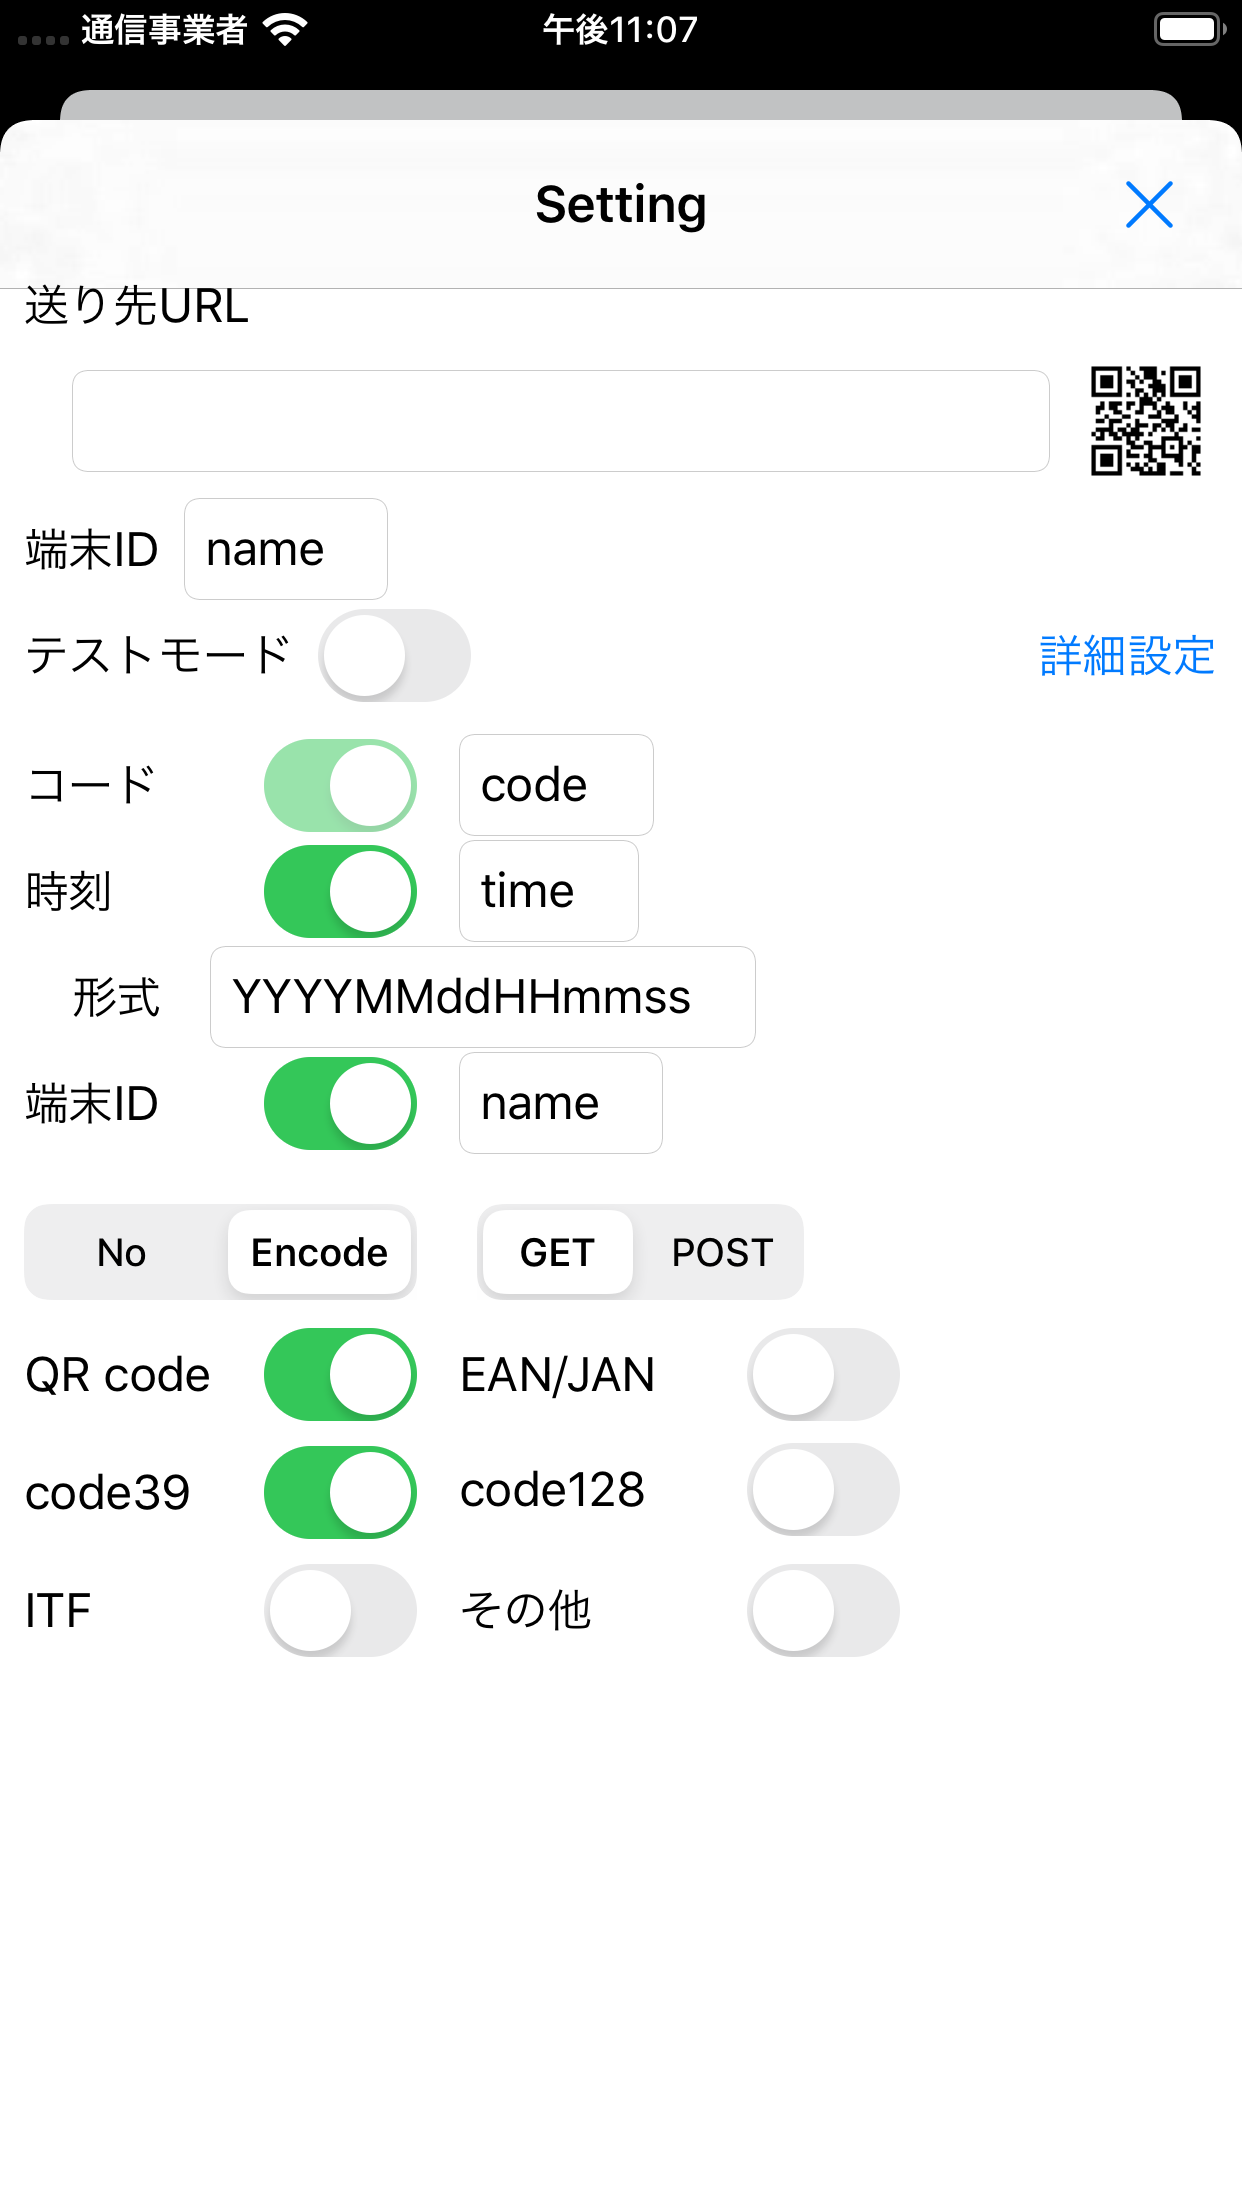
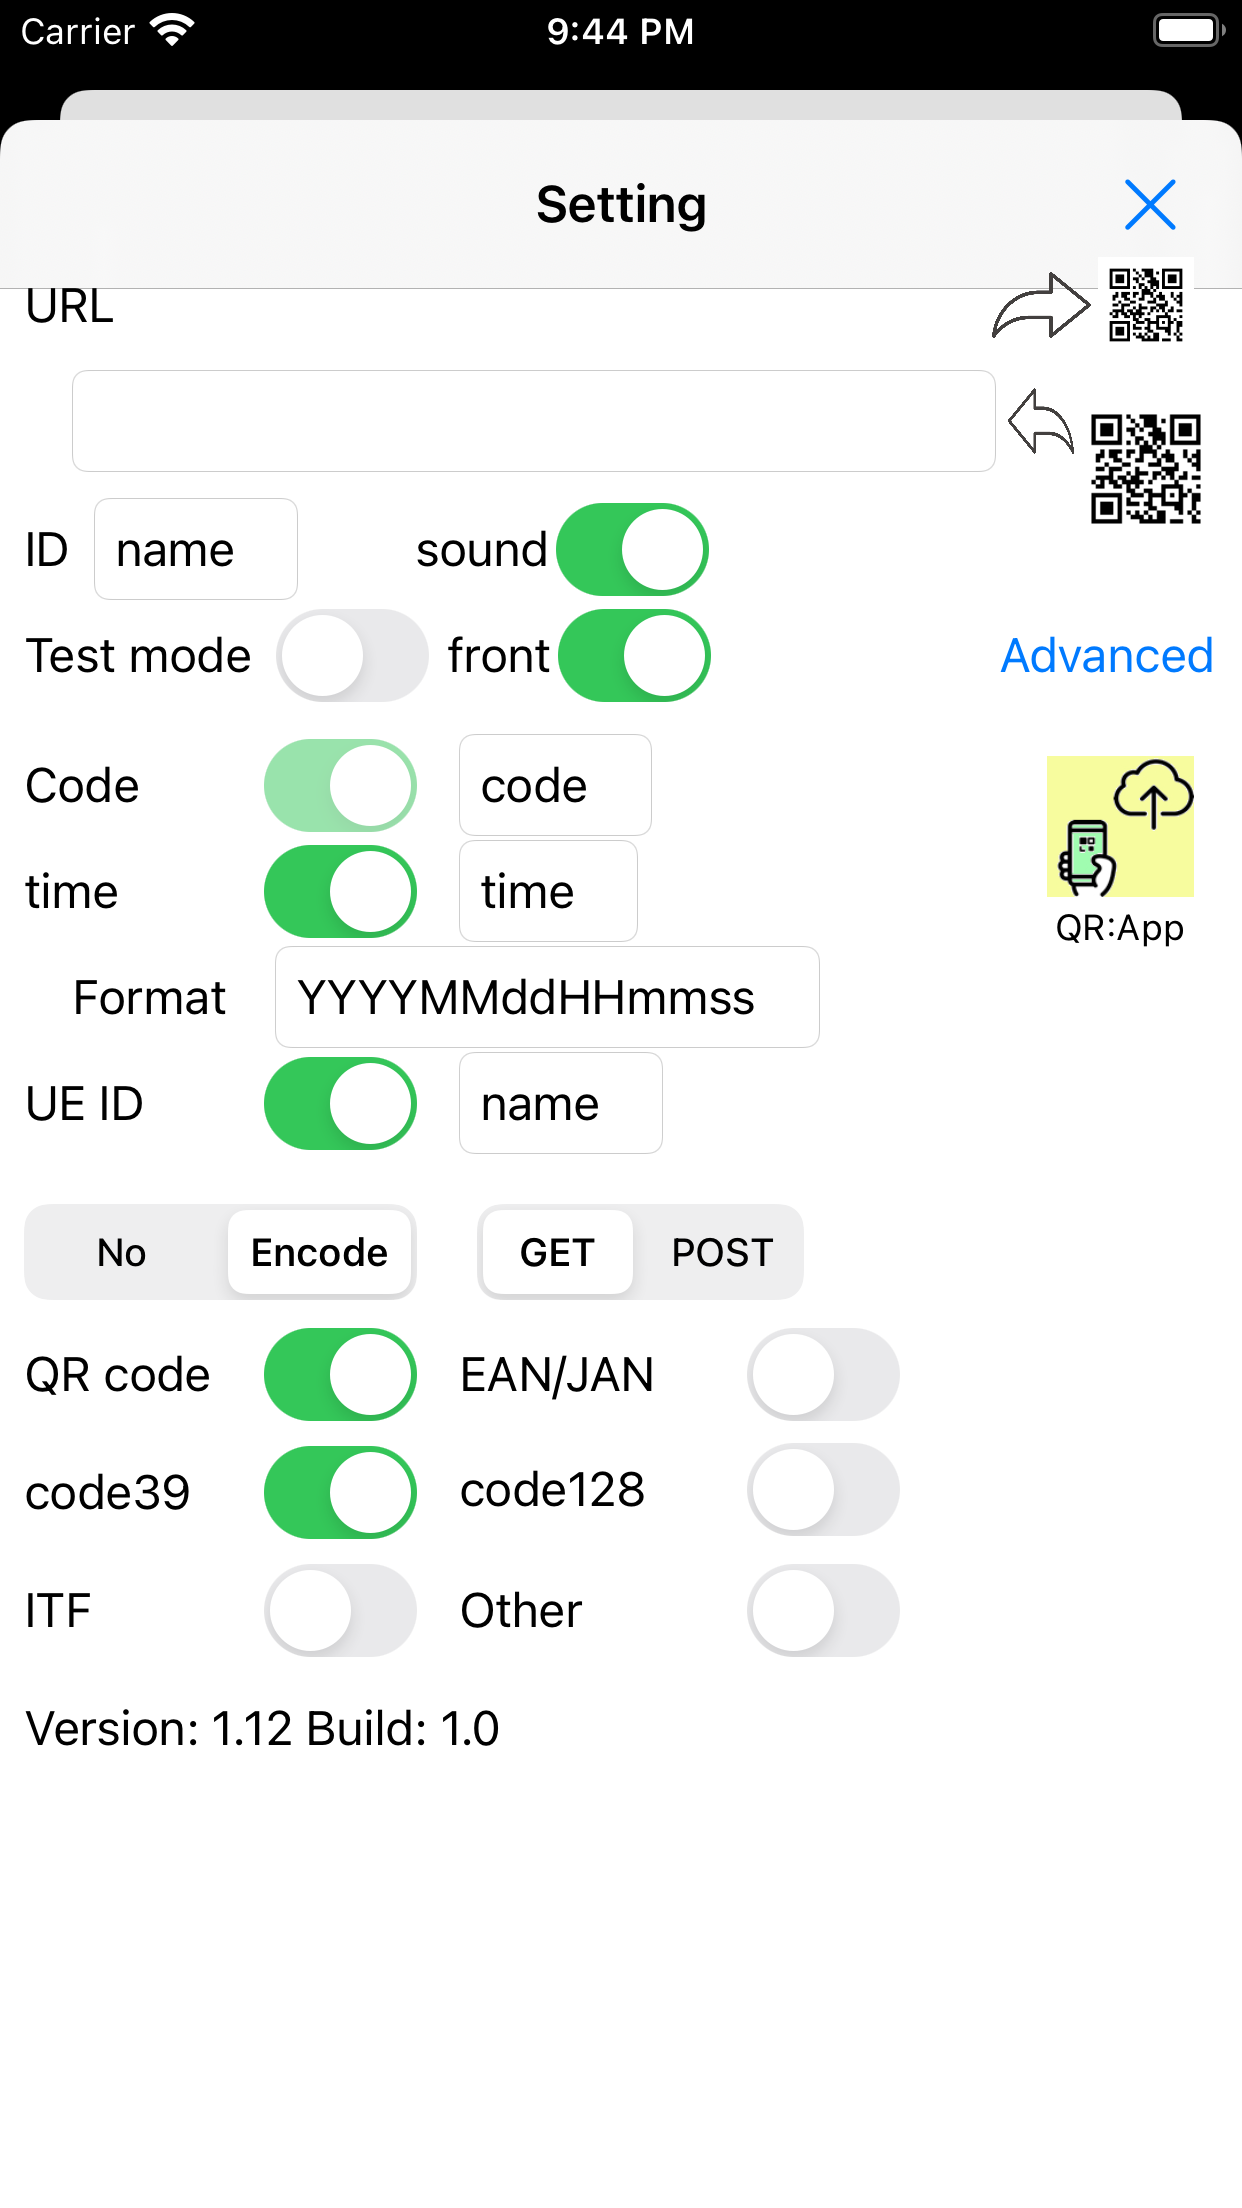
qr2web, 1.12

diff --git a/docs/qr2web(jpn).html b/docs/qr2web(jpn).html
@@ -22,9 +22,14 @@ GET/POSTメソッドを選択できます。
 読み込んだデータは、ウェブに送るほか、プログラム内のデータとして、さらに、ファイルとして保存しています。
 これらのデータは後から再送可能です。
 
+読み込み時にサウンドを追加しました。
+
 データ送信時にエラーがあった場合は、一定時間毎に再送を試みます。
 
 テストモードは読み込んで表示するだけです。送信・保存はしません。
+フロントカメラを選択できるようにしました。
+フロントカメラを選択した場合、直接入力は無効にしてあります。
+フロントカメラを選択した場合、読み込み時にブリンクします。
 
 カメラが使えない場合は、カメラ許可要求のダイアログが出ますので、許可して使用してください。
 その際、デモ表示を選択することができます。

diff --git a/docs/qr2web(eng).html b/docs/qr2web(eng).html
@@ -26,6 +26,8 @@ Saved data is possible to send to web, again.
 Retry sending is scheduled.
 
 Test mode is to check without send and save data.
+Sound is available with vibration.
+Front Camera is available.
 
 In case of camera disabling, please set permittion.
 And you can see demo view.
